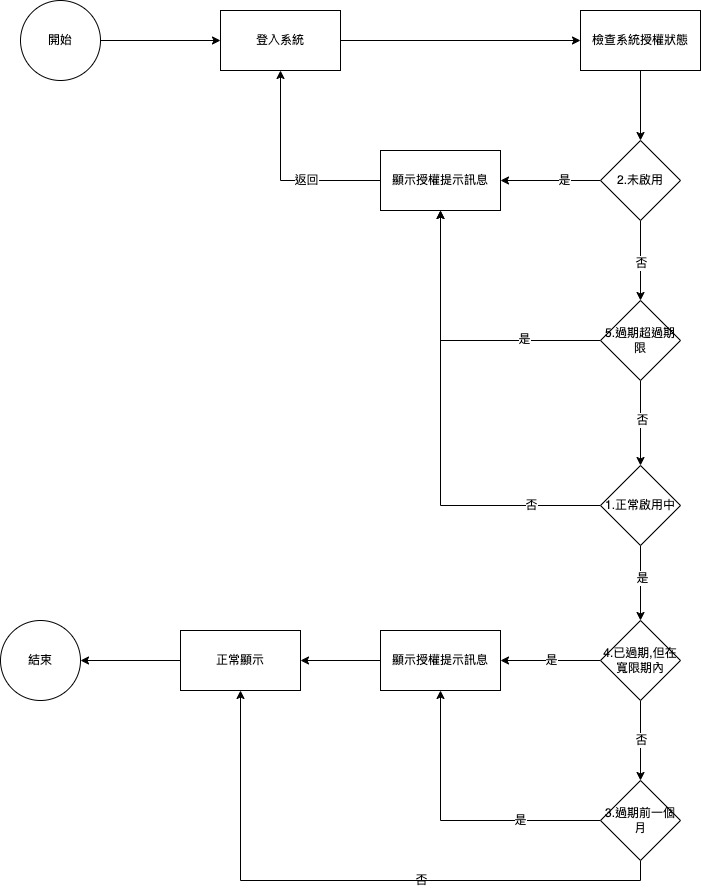
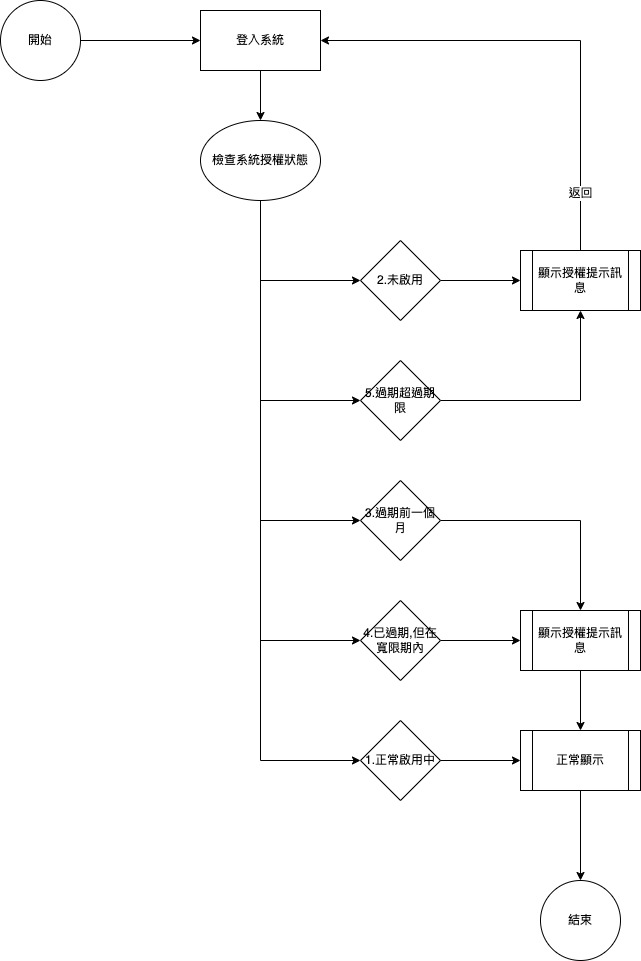
修改中授權流程

diff --git a/8.10.2/MAE/AuthorizationManagement/README.md b/8.10.2/MAE/AuthorizationManagement/README.md
@@ -1,68 +1,75 @@
 # 授權管理
 
 * #### 登入站台
+  * 登入站台時會檢查站台的授權狀態
+    1. 正常啟用中
 
-  * RTE站台的站台授權期間，登入時會跳出提示訊息
-    * 授權到期日為30天內時顯示<span style="color:blue">"站台授權剩餘XX天將到期，請儘速聯絡系統管理員!"</span>
-    * 授權到期但還在為30天內的寬限期內時顯示<span style="color:blue">"站台授權已到期，寬限期剩餘XX天，請儘速聯絡系統管理員!"</span>
-    * 授權到期後則顯示<span style="color:blue">"站台授權已到期，無法登入，請聯絡系統管理員!"</span><span style="color:red">且無法登入該站台</span>
+      正常顯示
+
+    2. 未啟用
+
+      顯示授權提示訊息且<span style="color:red">返回站台登入畫面</span>
+
+    3. 過期前一個月
+
+      顯示授權提示訊息且正常顯示
+
+    4. 已過期,但在寬限期內
+
+      顯示授權提示訊息且正常顯示
+
+    5. 過期超過期限
+
+      顯示授權提示訊息且<span style="color:red">返回站台登入畫面</span>
+
   * 流程圖
 
     ![image](../Image/authorization_login_platform.jpg)
 
 * #### 登入系統
+  * 在登入系統時會檢查系統狀態並顯示相關訊息
+    1. 正常啟用中
+          
+      正常顯示
 
-  * RTE站台的系統授權期間，登入時會跳出提示訊息
-    * 授權到期日為30天內時顯示<span style="color:blue">"系統授權剩餘XX天將到期，請儘速聯絡系統管理員!"</span>
-    * 授權到期但還在為30天內的寬限期內時顯示<span style="color:blue">"系統授權已到期，寬限期剩餘XX天，請儘速聯絡系統管理員!"</span>
-    * 授權到期後則顯示<span style="color:blue">"系統授權已到期，無法登入，請聯絡系統管理員!"</span><span style="color:red">且無法登入該系統</span>
+    2. 未啟用
+          
+      顯示授權提示訊息且<span style="color:red">返回系統登入畫面</span>
+
+    3. 過期前一個月
+          
+      顯示授權提示訊息且正常顯示
+          
+    4. 已過期,但在寬限期內
+          
+      顯示授權提示訊息且正常顯示
+          
+    5. 過期超過期限
+          
+      顯示授權提示訊息且<span style="color:red">返回系統登入畫面</span>
+
   * 流程圖
 
     ![image](../Image/authorization_login_system.jpg)
 
 * #### 背景返回前景
-
-  * 依RTE站台的授權期限來判斷顯示提示訊息
-    * 當<span style="color:red">站台</span>授權到期日為30天內時
-      * 當<span style="color:red">系統</span>授權到期日為30天內時
-        * 顯示<span style="color:blue">"站台授權剩餘XX天將到期且系統授權剩餘XX天將到期，請儘速聯絡系統管理員!"</span>
-      * 當<span style="color:red">系統</span>到期後但還在30天內的寬限期內時
-        * 顯示<span style="color:blue">"站台授權剩餘XX天將到期且系統授權已到期，寬限期剩餘XX天，請儘速聯絡系統管理員!"</span>
-      * 當<span style="color:red">系統</span>授權到期後
-        * 顯示<span style="color:blue">"系統授權已到期，無法登入，請聯絡系統管理員!"</span><span style="color:red">且返回系統登入畫面</span>
-    * 當<span style="color:red">站台</span>到期後但還在30天內的寬限期內時
-      * 當<span style="color:red">系統</span>授權到期日為30天內時
-        * 顯示<span style="color:blue">"站台授權已到期，寬限期剩餘XX天且系統授權剩餘XX天將到期，請儘速聯絡系統管理員!"</span>
-      * 當<span style="color:red">系統</span>到期後但還在30天內的寬限期內時
-        * 顯示<span style="color:blue">"站台授權已到期，寬限期剩餘XX天且系統授權已到期，寬限期剩餘XX天，請儘速聯絡系統管理員!"</span>
-      * 當<span style="color:red">系統</span>授權到期後
-        * 顯示<span style="color:blue">"系統授權已到期，無法登入，請聯絡系統管理員!"</span><span style="color:red">且返回系統登入畫面</span>
-    * 當<span style="color:red">站台</span>授權到期後
-      * 顯示<span style="color:blue">"站台已過期，請聯絡系統管理員!"</span><span style="color:red">且返回站台登入畫面</span>
+  * 在背景返回前景時會先檢查授權狀態
+    * 當授權狀態=失效時
+      * 顯示錯誤訊息且<span style="color:red">返回站台登入畫面</span>
+    * 當授權狀態=有效時
+      * 返回前景
   * 流程圖
 
     ![image](../Image/authorization_background_to_foreground.jpg)
 
+* #### 另開他單
+  * 在開啟新表單之前會先檢查授權狀態
+    * 當授權狀態=失效時
+      * 顯示錯誤訊息且<span style="color:red">返回站台登入畫面"</span>
+    * 當授權狀態=有效時
+      * 執行開啟新表單
+  * 流程圖
+
+    ![image](../Image/authorization_openform.jpg)
+
 * 完整網站規劃連結 : [授權中心網站](../../../LICENSE/README.md)
-
-#### 訊息參考畫面
-
-   ![image](../Image/thePlatformIsAboutToExpireASAP.png)
-
-   ![image](../Image/thePlatformHasExpiredASAP.png)
-
-   ![image](../Image/thePlatformHasExpired.png)
-
-   ![image](../Image/theSystemIsAboutToExpireASAP.png)
-
-   ![image](../Image/theSystemHasExpiredASAP.png)
-
-   ![image](../Image/theSystemHasExpired.png)
-
-   ![image](../Image/thePlatformIsAboutToExpireASAPAndTheSystemIsAboutToExpireASAP.png)
-
-   ![image](../Image/thePlatformIsAboutToExpireASAPAndTheSystemHasExpiredASAP.png)
-
-   ![image](../Image/thePlatformHasExpiredASAPAndTheSystemIsAboutToExpireASAP.png)
-
-   ![image](../Image/thePlatformHasExpiredASAPAndTheSystemHasExpiredASAP.png)

diff --git a/8.10.2/MAE/AuthorizationManagement/_sidebar.md b/8.10.2/MAE/AuthorizationManagement/_sidebar.md
@@ -4,3 +4,4 @@
 * [登入站台](README.md#登入站台)
 * [登入系統](README.md#登入系統)
 * [背景返回前景](README.md#背景返回前景)
+* [另開他單](README.md#另開他單)
